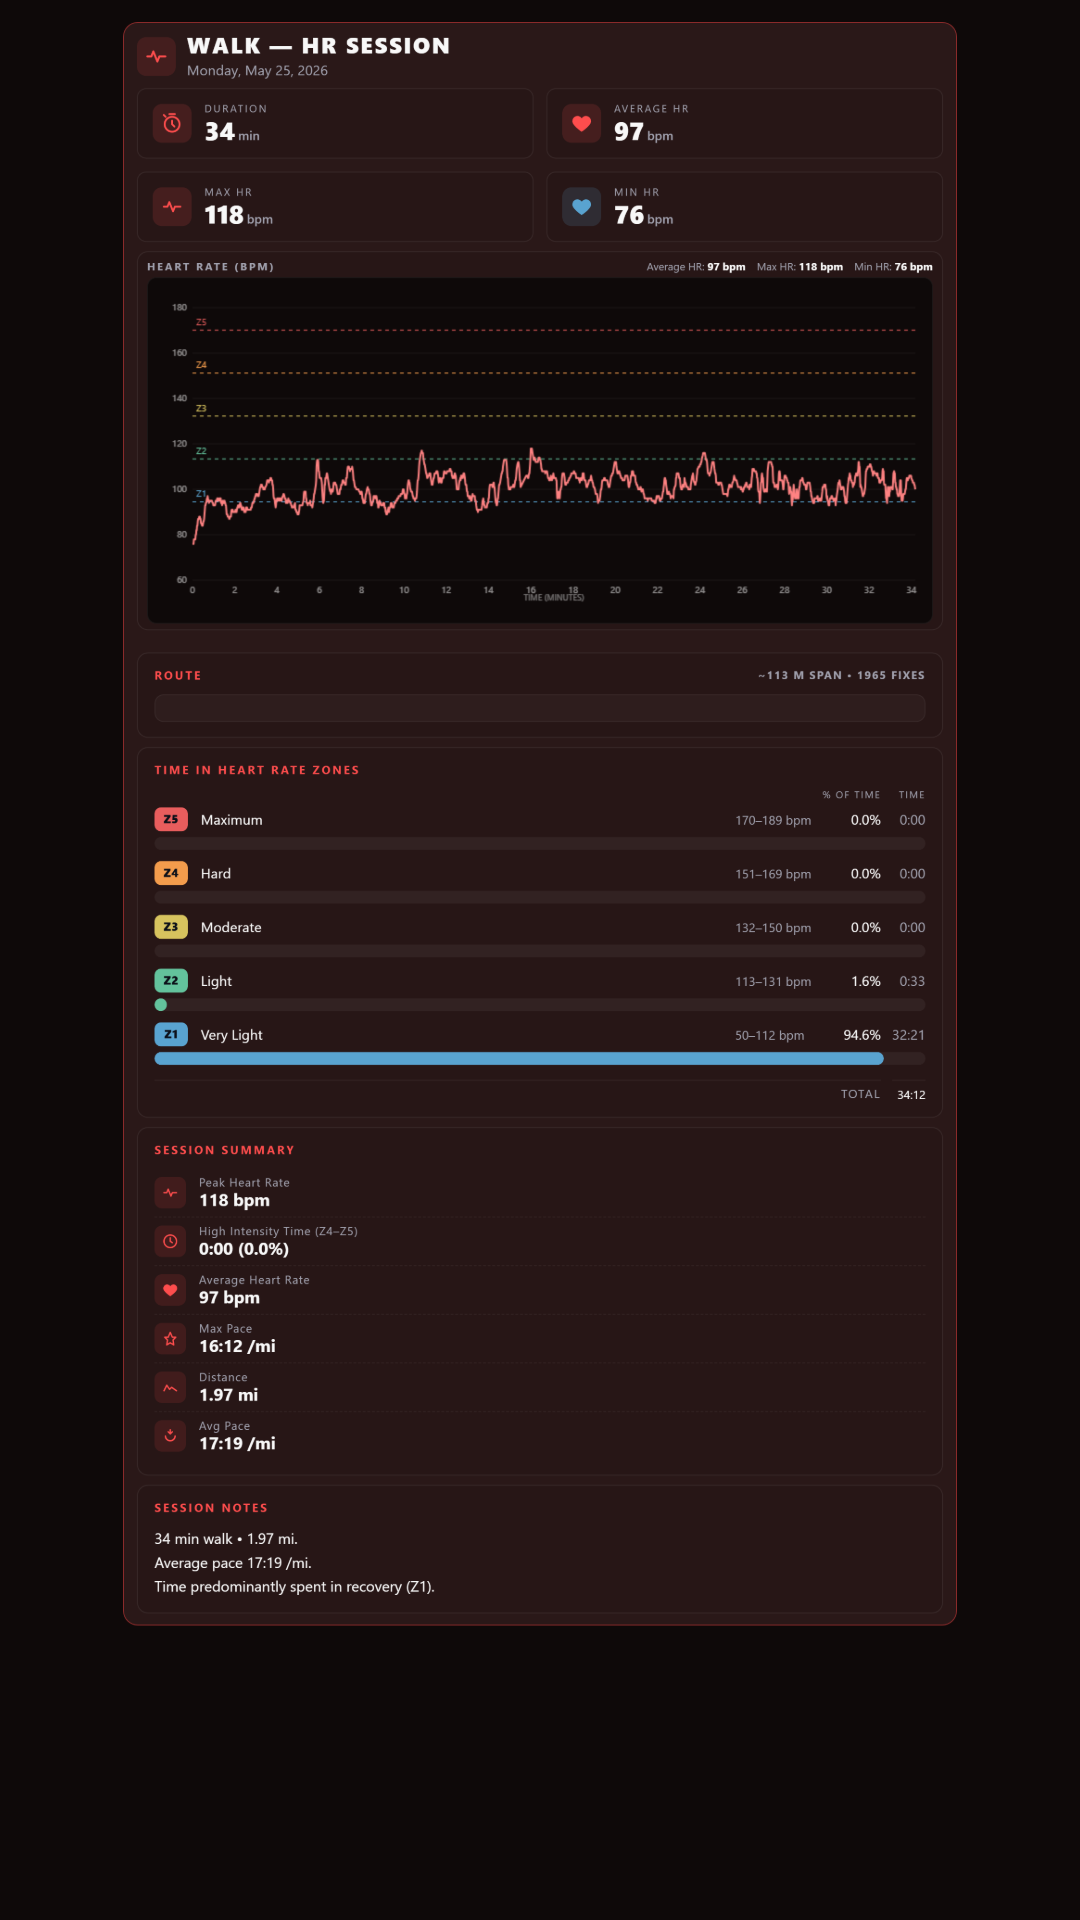
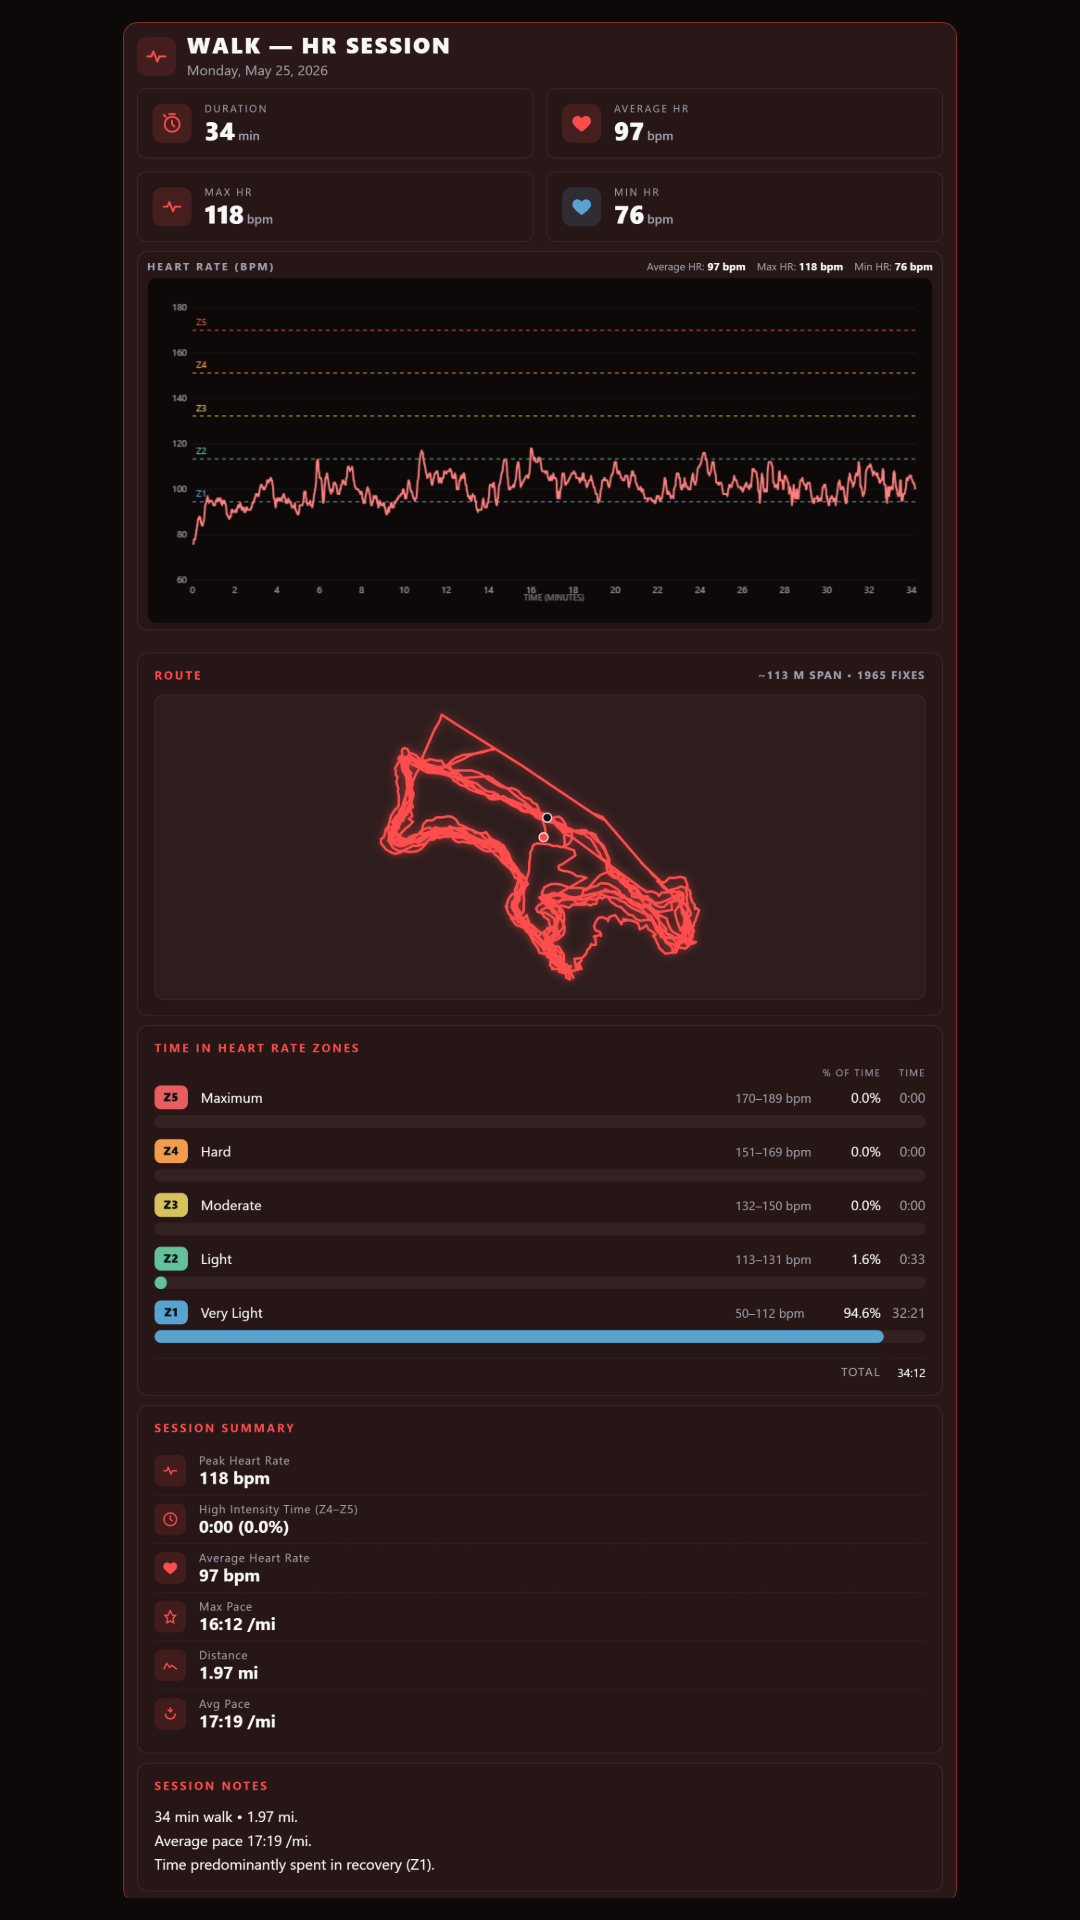
Polish story export layout: aspect-fit route + 2-col summary
Tightens the 9:16 story export to remove dead space:
- Route SVG: sized inline to polyline's actual aspect ratio (240px on
  on-screen SVG fallback / 280px in narrow export), so a short, wide
  route renders as a short, wide card instead of letterboxed in a
  300px-tall slab.
- Session Summary card: now a 2-col grid in narrow mode using :has()
  so 6 summary rows collapse to 3 visual rows; dashed divider dropped
  in grid mode to avoid awkward inter-column lines.
- Stat tiles: tighter padding (14->10), smaller icon (42->38),
  smaller value font (1.7rem->1.55rem) — 4 stats use less vertical.
- Zone bars: 14px -> 10px in narrow mode.
- Chart height: 360 -> 320 in narrow mode.

Changed region(s): [[0.0917, 0.375, 0.8861, 1.0], [0.7944, 0.625, 0.8556, 0.6562], [0.7944, 0.4062, 0.825, 0.4375]]

diff --git a/analysis.html b/analysis.html
@@ -479,7 +479,6 @@
             width: 100%;
             height: auto;
             display: block;
-            max-height: 360px;
         }
         .route-svg .route-line {
             fill: none;
@@ -495,8 +494,8 @@
         }
         .route-svg .route-start { fill: var(--accent); }
         .route-svg .route-end { fill: #0b0f18; }
-        .route-svg { max-height: 260px; }
-        .analysis-panel.export-narrow .route-svg { max-height: 300px; }
+        .route-svg { max-height: none; }
+        .analysis-panel.export-narrow .route-svg { max-height: none; }
         #routeLeaflet {
             width: 100%;
             height: 260px;
@@ -640,17 +639,32 @@
             display: none !important;
         }
 
-        .analysis-panel.export-narrow .stat-strip { grid-template-columns: repeat(2, 1fr); gap: 14px; }
-        .analysis-panel.export-narrow .stat-tile { padding: 14px 16px; gap: 14px; }
-        .analysis-panel.export-narrow .stat-tile .stat-icon { width: 42px; height: 42px; border-radius: 10px; }
-        .analysis-panel.export-narrow .stat-tile .stat-icon svg { width: 24px; height: 24px; }
-        .analysis-panel.export-narrow .stat-tile .stat-label { font-size: 0.7rem; }
-        .analysis-panel.export-narrow .stat-tile .stat-value { font-size: 1.7rem; }
-        .analysis-panel.export-narrow .stat-tile .stat-unit { font-size: 0.85rem; }
-        .analysis-panel.export-narrow .bottom-grid { grid-template-columns: 1fr; }
-        .analysis-panel.export-narrow #analysisChart { height: 360px; }
-        .analysis-panel.export-narrow .analysis-card { padding: 16px 18px; }
-        .analysis-panel.export-narrow .analysis-card-title { font-size: 0.78rem; margin-bottom: 12px; }
+        .analysis-panel.export-narrow .stat-strip { grid-template-columns: repeat(2, 1fr); gap: 12px; }
+        .analysis-panel.export-narrow .stat-tile { padding: 10px 14px; gap: 12px; }
+        .analysis-panel.export-narrow .stat-tile .stat-icon { width: 38px; height: 38px; border-radius: 10px; }
+        .analysis-panel.export-narrow .stat-tile .stat-icon svg { width: 22px; height: 22px; }
+        .analysis-panel.export-narrow .stat-tile .stat-label { font-size: 0.68rem; }
+        .analysis-panel.export-narrow .stat-tile .stat-value { font-size: 1.55rem; }
+        .analysis-panel.export-narrow .stat-tile .stat-unit { font-size: 0.8rem; }
+        .analysis-panel.export-narrow .bottom-grid { grid-template-columns: 1fr; gap: 16px; }
+        .analysis-panel.export-narrow #analysisChart { height: 320px; }
+        .analysis-panel.export-narrow .analysis-card { padding: 14px 16px; }
+        .analysis-panel.export-narrow .analysis-card-title { font-size: 0.76rem; margin-bottom: 10px; }
+
+        /* Session Summary: 2-column grid in narrow mode so 6 rows fit in 3 */
+        .analysis-panel.export-narrow .analysis-card:has(> .summary-row) {
+            display: grid;
+            grid-template-columns: 1fr 1fr;
+            column-gap: 14px;
+            row-gap: 2px;
+        }
+        .analysis-panel.export-narrow .analysis-card:has(> .summary-row) > .analysis-card-title {
+            grid-column: 1 / -1;
+        }
+        .analysis-panel.export-narrow .analysis-card:has(> .summary-row) > .summary-row {
+            border-top: none;
+            padding: 6px 0;
+        }
 
         /* Full-width zone bars in narrow/story mode */
         .analysis-panel.export-narrow .zones-table {
@@ -670,8 +684,8 @@
         .analysis-panel.export-narrow .zones-table > div:nth-child(5) { grid-column: 5; }
         .analysis-panel.export-narrow .zones-table .zbar {
             grid-column: 1 / -1;
-            height: 14px;
-            margin: 2px 0 8px;
+            height: 10px;
+            margin: 1px 0 6px;
         }
         .analysis-panel.export-narrow .zones-table .ztotal,
         .analysis-panel.export-narrow .zones-table .ztotal-val {
@@ -1950,8 +1964,9 @@
 
             let analysisLmap = null;
             let analysisLastRoutePts = null;
-            function drawRouteSvgFallback(pts, minLat, maxLat, minLon, maxLon, cosLat, M_PER_DEG, wM, hM) {
+            function drawRouteSvgFallback(pts, minLat, maxLat, minLon, maxLon, cosLat, M_PER_DEG, wM, hM, opts) {
                 if (!analysisEl.routeSvg) return;
+                const targetH = (opts && opts.height) || 240;
                 if (analysisEl.routeLeaflet) analysisEl.routeLeaflet.style.display = 'none';
                 analysisEl.routeSvg.style.display = 'block';
                 const xs = pts.map(p => (p.lon - minLon) * cosLat * M_PER_DEG);
@@ -1972,6 +1987,14 @@
                 const start = coords[0], end = coords[coords.length - 1];
                 analysisEl.routeSvg.setAttribute('viewBox', `0 0 ${vbW} ${vbH}`);
                 analysisEl.routeSvg.setAttribute('preserveAspectRatio', 'xMidYMid meet');
+                // Size the SVG element itself to the polyline's actual aspect ratio
+                // so the route card collapses to just the space the line needs —
+                // no wide letterboxed dead space around a short polyline.
+                const targetW = Math.round(targetH * (vbW / vbH));
+                analysisEl.routeSvg.style.height = targetH + 'px';
+                analysisEl.routeSvg.style.width = targetW + 'px';
+                analysisEl.routeSvg.style.maxWidth = '100%';
+                analysisEl.routeSvg.style.margin = '0 auto';
                 analysisEl.routeSvg.innerHTML =
                     `<path class="route-line" d="${d}" />` +
                     `<circle class="route-start" cx="${start[0].toFixed(2)}" cy="${start[1].toFixed(2)}" r="4" />` +
@@ -2049,7 +2072,8 @@
                     requestAnimationFrame(() => requestAnimationFrame(buildMap));
                 } else if (analysisEl.routeSvg) {
                     if (analysisLmap) { try { analysisLmap.remove(); } catch {} analysisLmap = null; }
-                    drawRouteSvgFallback(pts, minLat, maxLat, minLon, maxLon, cosLat, M_PER_DEG, wM, hM);
+                    const svgH = (opts && opts.svgHeight) || 240;
+                    drawRouteSvgFallback(pts, minLat, maxLat, minLon, maxLon, cosLat, M_PER_DEG, wM, hM, { height: svgH });
                 }
 
                 if (analysisEl.routeSub) {
@@ -2579,9 +2603,12 @@
                     // Swap the live Leaflet map for the SVG fallback during capture.
                     // html2canvas can't capture cross-origin tile images, so the
                     // leaflet container otherwise renders as a blank dark strip.
+                    // SVG fallback also sizes the polyline to its natural aspect,
+                    // killing the wide empty margins around short routes.
                     const hadRoute = !!(analysisState.lastSamples && analysisLastRoutePts);
                     if (hadRoute) {
-                        try { renderRouteSvg(analysisState.lastSamples, { forceSvg: true }); } catch (_) {}
+                        const svgH = preset.narrow ? 280 : 240;
+                        try { renderRouteSvg(analysisState.lastSamples, { forceSvg: true, svgHeight: svgH }); } catch (_) {}
                     }
                     // Give layout a frame to reflow, then redraw chart at the new size
                     await new Promise(r => requestAnimationFrame(() => requestAnimationFrame(r)));